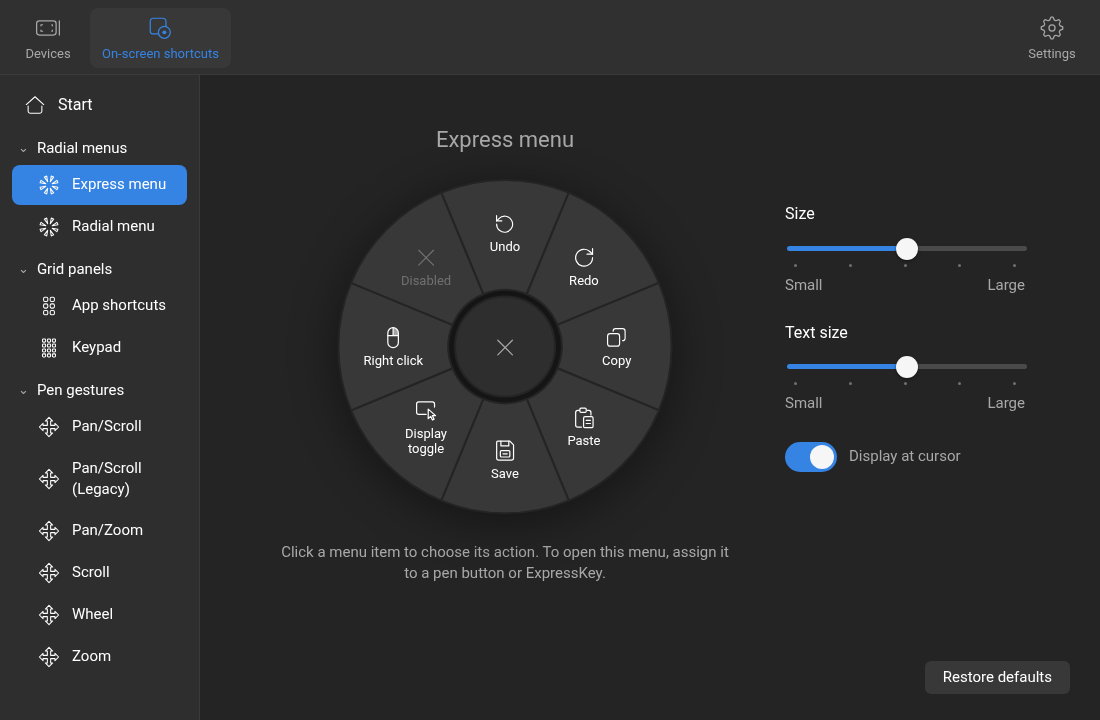
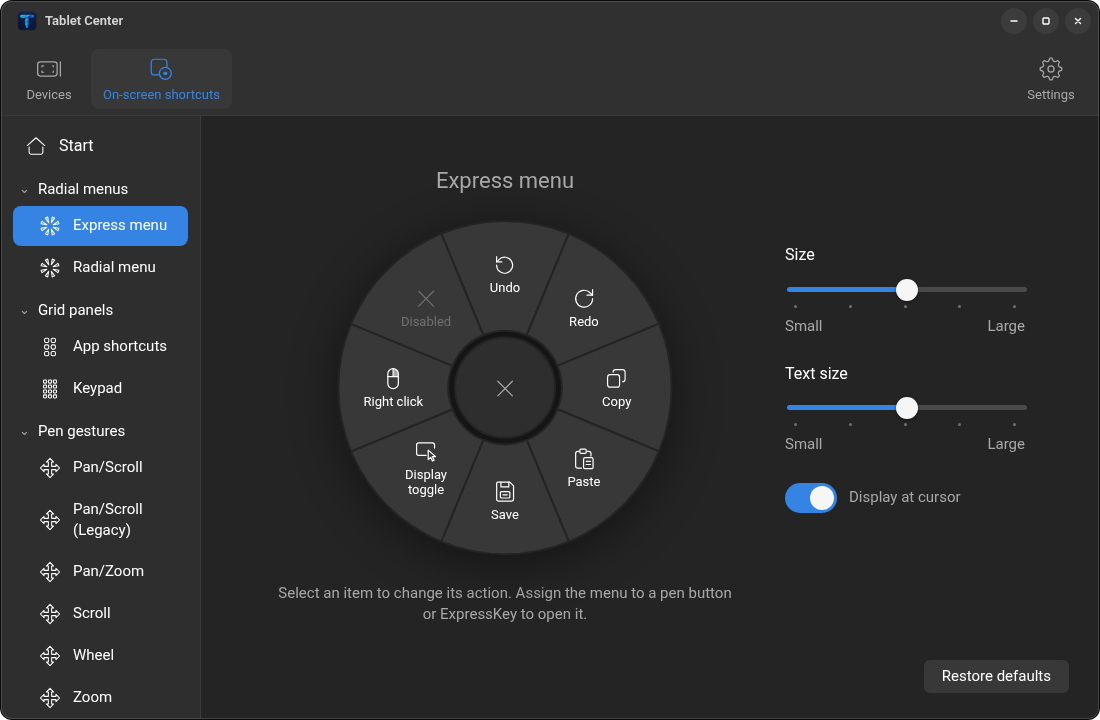
Update screenshots with the title bar and Glass in dark mode

diff --git a/README.md b/README.md
@@ -40,7 +40,7 @@ your settings too).
 | ![Pan/Scroll](docs/screenshots/pan-scroll.png) | ![Mapping](docs/screenshots/mapping.png) |
 | Pan/Scroll, the macOS-style pen gesture | Mapping to all displays or one |
 | ![Glass interface](docs/screenshots/glass.png) | |
-| The alternative Glass interface | |
+| The alternative Glass interface, dark theme | |
 
 ## Features
 
